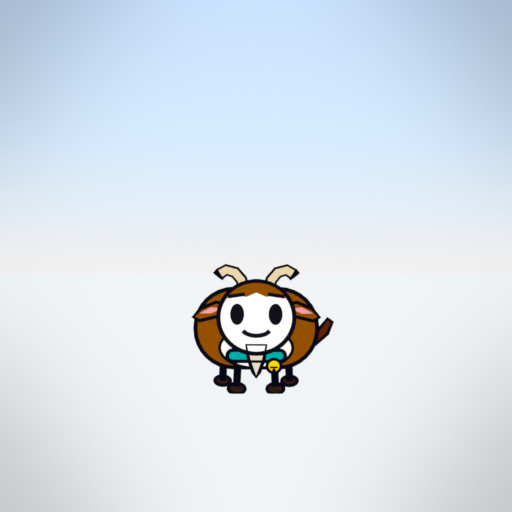
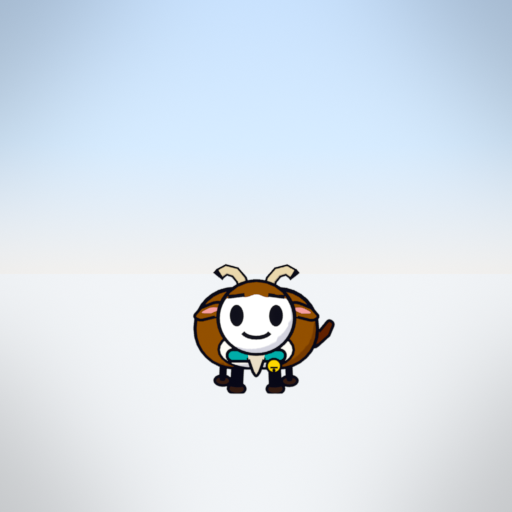
3D characters: library char thumbnails, Hadrian's Wall previews in 3D, CLAUDE.md log
Claude-Session: https://claude.ai/code/session_013w7Vyd24Fyt9tqdhFprxbt

Changed region(s): [[0.375, 0.5312, 0.6562, 0.75]]

diff --git a/CLAUDE.md b/CLAUDE.md
@@ -319,3 +319,16 @@ Shorts giữ nguyên: mọi thay đổi kiểm bằng fingerprint (manhole-round
 - Gói YouTube (252 s): 10 tiêu đề (chọn "Why Hadrian's Wall Had a Gate Every Mile"), 17 mốc chương, 14 nguồn, 3 thumbnail (Claude chấm 5/7/4, chọn VS).
   Ảnh: `docs/img/hadrian_thumbs.jpg`.
 - Render thử trong container: chương 1 khung 1-300, fast 25 %, âm thanh −14,0 LUFS, 6 đoạn nhạc theo mood. Bản 10 phút đầy đủ render trên máy người dùng.
+
+## Nhân vật 3D (yêu cầu của người dùng: cả Shorts lẫn video dài)
+- `core/body3d.py`, chạy sau khi dựng nhân vật + trang phục + miệng nói: mặt/áo nền phồng thành khối tròn đặc (độ sâu theo khoảng cách tới
+  mép, hình tròn → cầu, chữ nhật → viên thuốc); mảnh trên đầu/thân uốn ôm theo bề mặt theo thứ tự lớp z (z nhỏ hơn nền → phía sau);
+  tay/giày/đồ cầm tay thành khối riêng, mảnh nhỏ vẽ lên mảnh lớn cùng nhóm (hoa văn khiên) ôm theo mảnh lớn; mọi góc bo tròn 0,035;
+  viền: ống tròn dọc mép + vỏ mực mỏng; đổ bóng 2 tông theo hướng sáng cố định trong không gian camera (ánh sáng thật cho bóng loang lổ).
+  Khung xương, tư thế, biểu cảm, chớp mắt, nhép miệng giữ nguyên.
+- `meta.char_style` "3d" (mặc định) | "2d"; biến môi trường `WHYSHORTS_CHAR_STYLE=2d` cho fingerprint: 3 Shorts cũ ở 2D vẫn giống hệt.
+- Lỗi đã sửa khi làm: trục Z camera của Blender hướng ra xa (ánh sáng đặt ngược → mặt xám); mảnh trang phục nằm trong thân (thiếu lệch
+  base_z); lớp sát nhau đâm xuyên (bước lớp 0,012); hoa văn khiên chìm trong khiên; ống viền dày trồi qua nét màu (ép dẹt ống 0,25);
+  tính lại cảnh cho mỗi nét (chương 1: 1.026 s → 118 s cho 21 nhân vật).
+- Phụ đề video dài: viền = ống tròn dọc mép chữ (bevel) đặt sau chữ trắng; hết gai ở góc chữ.
+- Ảnh: `docs/img/char3d_compare.jpg`, `char3d_shorts.jpg`, `hadrian3d_ch{1,2,3}.jpg`.
